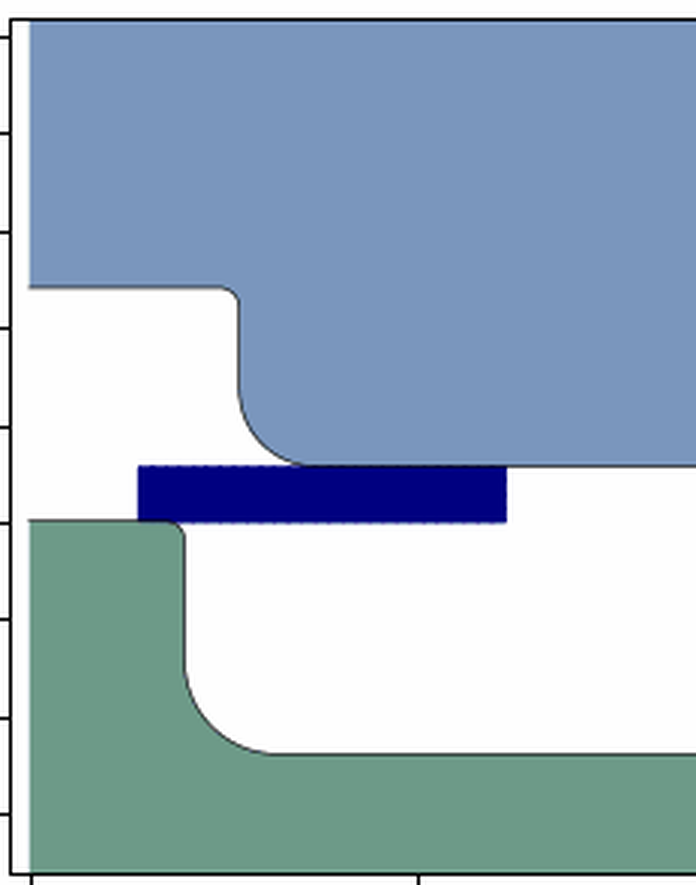
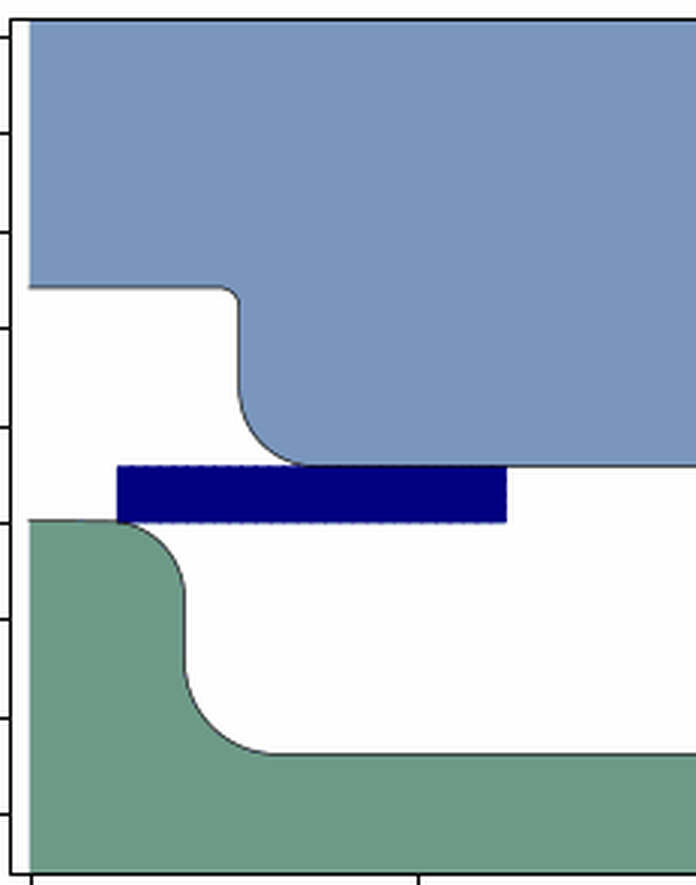
리테이너 금형 영상: 버링 펀치 끝 R2 · 클리어런스 비교를 대본·장면에 반영, 숫자 갱신(기초 구멍 Ø4.571 · 얇아짐 29 % · 100톤)
Claude-Session: https://claude.ai/code/session_01HCMiuu1AesjX1pGFB7RxTw

Changed region(s): [[0.1509, 0.5186, 0.2716, 0.6712]]

diff --git a/연재/리테이너금형개발/장면/ch5.py b/연재/리테이너금형개발/장면/ch5.py
@@ -25,9 +25,17 @@ for k in range(14):
     keyv(o,'scale',[(0,(0,0,0)),(t-0.01,(0,0,0)),(t,(1,1,1))])
 ri=card('어깨 R 3.4 → 2.4 로 줄이고 다시 해석','',(0,-60,-40),COL['sky'],w=220,h=22,tsize=10); pop(ri,T(5)+0.2,T(7)-0.1)
 tm=card('해석 1회 ≈ 몇 초','바꾸고 → 다시 확인이 빠름',(0,-60,90),COL['accent'],w=170,h=34,tsize=12,ssize=9); pop(tm,T(6)+0.2,T(7)-0.1)
-ok=card('몸통 Ø12.8 < 간격 14.6 ✔','기초 구멍 Ø5.646 · 높이 3.97',(0,-60,90),(0.35,1,0.45),w=190,h=34,tsize=12,ssize=9); pop(ok,T(7)+0.2)
+ok=card('몸통 Ø12.8 < 간격 14.6 ✔','결과는 거의 같음',(0,-60,90),(0.35,1,0.45),w=190,h=34,tsize=12,ssize=9); pop(ok,T(7)+0.2,T(8)-0.2)
+# 펀치 끝 R2 · 클리어런스 비교 (1번 펀치 끝 가까이)
+NX=32.5
+def tip_card(s,sub,t0,t1,col):
+    c=card(s,sub,(NX+33,-49,-1.5),col,w=240,h=65 if not sub else 85,tsize=20,ssize=14); pop(c,t0,t1,s=0.1); return c
+tip_card('버링 펀치 끝 R2','구멍에 부드럽게 들어감',T(8)+0.2,T(9)-0.1,COL['sky'])
+tip_card('끝 각짐 32 % → 끝 R2 29 %','버링 끝 두께 0.66 → 0.77',T(9)+0.2,T(10)-0.1,COL['accent'])
+tip_card('틈을 좁혀 훑기 (0.85t · 0.7t)','높이 거의 그대로 · 하중 2~3배',T(10)+0.2,T(11)-0.1,COL['red'])
+tip_card('틈 = 판 두께 1.4 ✔','펀치 Ø8 · 다이 구멍 Ø10.8',T(11)+0.2,None,(0.35,1,0.45))
 cam,tgt=camera(40)
 cam_keys(cam,tgt,[(0,(60,-150,-70),(0,0,10)),(T(2)-0.2,(40,-140,-80),(0,0,0)),(T(2)+0.6,(0,-60,-190),(0,0,0)),(T(3)-0.1,(40,-170,-80),(0,0,-25)),(T(4)-0.1,(45,-175,-78),(0,0,-25)),
-                  (T(4)+0.3,(90,-160,60),(0,0,30)),(T(6)-0.2,(110,-150,40),(0,0,30)),(T(7)+0.2,(70,-110,-60),(0,0,10)),(DUR,(60,-120,-70),(0,0,10))])
+                  (T(4)+0.3,(90,-160,60),(0,0,30)),(T(6)-0.2,(110,-150,40),(0,0,30)),(T(7)+0.2,(0,-240,40),(0,0,25)),(T(8)-0.3,(10,-245,40),(0,0,25)),(T(8)+0.5,(NX+40,-110,-15),(NX+6,0,0)),(DUR,(NX+42,-112,-14),(NX+6,0,0))])
 handheld(cam,0.15)
 finish('ch5',DUR)

diff --git a/연재/리테이너금형개발/장면/ch4.py b/연재/리테이너금형개발/장면/ch4.py
@@ -11,13 +11,13 @@ for i,f in enumerate(FR):
     keyv(o,'scale',[(0,(0,0,0)),(max(0,a-0.01),(0,0,0)),(a,(1,1,1))]+([(b,(1,1,1)),(b+0.01,(0,0,0))] if b else []),interp='CONSTANT')
 lb=text('기초 구멍 → 펀치로 넓히며 버링을 세움',18,(-200,-10,175),rgb=COL['white']); pop(lb,T(1)+0.2)
 c=card('기초 피어싱 지름 = 버링 높이를 결정','',(-200,-10,-185),COL['accent'],w=380,h=50,tsize=18); pop(c,T(2)+0.2)
-tb=table((170,-20,130),['회차','기초 구멍','버링 높이','판정'],[['1','Ø4.700','4.78','높음'],['2','Ø7.800','2.23','낮음'],['3','Ø5.646','3.97','맞음 ✔']],
+tb=table((170,-20,130),['회차','기초 구멍','버링 높이','판정'],[['1','Ø4.700','3.94','낮음'],['2','Ø4.453','4.06','높음'],['3','Ø4.571','4.01','맞음 ✔']],
          [-190,-130,-20,90],w=400,rh=40,size=18,t0=T(4)+0.2,dt=0.9)
 pop(tb,T(3)+0.4)
 th=image_plane(os.path.join(AI,'얇아짐_확대.png'),300,(-200,-6,0),name='thin'); pop(th,T(5))
-w1=card('끝 두께 0.66 · 약 32 % 얇아짐','',(200,-35,-90),COL['red'],w=360,h=46,tsize=18); pop(w1,T(5)+0.3)
+w1=card('끝 두께 0.77 · 약 29 % 얇아짐','',(200,-35,-90),COL['red'],w=360,h=46,tsize=18); pop(w1,T(5)+0.3)
 w2=card('갈라짐 위험 → 시험 타발로 확인','',(200,-35,-145),COL['red'],w=360,h=40,tsize=16); pop(w2,T(6)+0.2)
-w3=card('높이 3.5 → 얇아짐 약 20 %','고객과 협의할 내용',(200,-35,-215),COL['accent'],w=340,h=70,tsize=18,ssize=13); pop(w3,T(7)+0.2)
+w3=card('높이를 조금 낮추는 안','고객과 협의할 내용',(200,-35,-215),COL['accent'],w=340,h=70,tsize=18,ssize=13); pop(w3,T(7)+0.2)
 cam,tgt=camera(35)
 cam_keys(cam,tgt,[(0,(-200,-520,20),(-200,0,0)),(T(3)-0.3,(-180,-560,10),(-190,0,0)),(T(3)+0.6,(0,-860,0),(0,0,-10)),(T(5)-0.3,(0,-880,0),(0,0,-10)),
                   (T(5)+0.6,(0,-880,-20),(0,0,-20)),(DUR,(10,-890,-20),(0,0,-20))])

diff --git a/연재/리테이너금형개발/장면/자료_만들기.py b/연재/리테이너금형개발/장면/자료_만들기.py
@@ -5,7 +5,7 @@ import matplotlib.pyplot as plt
 from matplotlib import font_manager as fm
 from PIL import Image
 H=os.path.dirname(os.path.abspath(__file__)); O=os.path.join(H,'자료')
-FEM='/home/user/mold_sold/parts/TEST_RETAINER_SPCC/burr_cell/reverse/iter2_d5.646'
+FEM='/home/user/mold_sold/parts/TEST_RETAINER_SPCC/burr_cell/reverse/iter2_d4.571'
 fp=fm.FontProperties(fname='/usr/share/fonts/truetype/nanum/NanumGothicBold.ttf')
 plt.rcParams['font.family']=fp.get_name(); fm.fontManager.addfont('/usr/share/fonts/truetype/nanum/NanumGothicBold.ttf')
 # 1) 가정 고객 도면 (요청 그대로: ID50 · OD60 · 버링 14 · 높이 4, 버링 지름 미지정)
@@ -34,9 +34,11 @@ fig.savefig(os.path.join(O,'고객도면.png')); plt.close(fig)
 # 2) 성형해석 장면: GIF 프레임에서 버링 주변(r 0~17 mm)만 잘라 크게
 for nm,fr in (('S2_burring',(0,4,8,12,16,22)),('S3_restrike',(13,))):
     im=Image.open(os.path.join(FEM,nm+'.gif'))
+    N=im.n_frames; base=23 if nm=='S2_burring' else 14
     for k in fr:
+        k0=k; k=min(N-1,round(k*(N-1)/(base-1)))
         im.seek(min(k,im.n_frames-1)); c=im.convert('RGB').crop((268,30,500,325)).resize((696,885),Image.LANCZOS)
-        c.save(os.path.join(O,'%s_%02d.png'%(nm,k)))
+        c.save(os.path.join(O,'%s_%02d.png'%(nm,k0)))
 s=Image.open(os.path.join(FEM,'S2_burring_summary.png')).convert('RGB')
 s.crop((205,400,752,765)).save(os.path.join(O,'얇아짐_확대.png'))
 s.crop((80,805,880,1195)).save(os.path.join(O,'얇아짐_그래프.png'))

diff --git a/연재/리테이너금형개발/장면/ch7.py b/연재/리테이너금형개발/장면/ch7.py
@@ -10,7 +10,7 @@ for i,(s,cl) in enumerate((('상형 펀치',COL['punch']),('하형 다이',COL['
     c=card(s,'',(-220+i*220,-200,330),cl,w=190,h=56,tsize=22); pop(c,T(2)+0.3+i*0.5,T(3)-0.2)
 lf=card('리프터: 스트립을 4.2 띄움','버링이 다이에 걸리지 않게',(SX[2]-40,-60,62),COL['sky'],w=120,h=34,tsize=9,ssize=6); pop(lf,T(3)+0.4,T(4)-0.1)
 hp=card('하프블랭킹 받침 패드','링만 내려가고 가운데 조각은 그대로',(SX[5]-40,-60,62),COL['accent'],w=140,h=34,tsize=9,ssize=5.5); pop(hp,T(4)+0.4,T(5)-0.1)
-pr=card('합계 ≈ 634 kN (약 65 톤)','→ 80 톤 이상 프레스',(0,-200,330),COL['red'],w=380,h=70,tsize=24,ssize=16); pop(pr,T(5)+0.3)
+pr=card('합계 ≈ 797 kN (약 81 톤)','→ 100 톤 프레스',(0,-200,330),COL['red'],w=380,h=70,tsize=24,ssize=16); pop(pr,T(5)+0.3)
 cam,tgt=camera(32)
 orbit(cam,tgt,0,T(2)-0.2,(0,0,40),1300,520,-125,-80,n=10)
 cam_keys(cam,tgt,[(T(2)+0.3,(0,-1350,520),(0,0,90)),(T(3)-0.1,(80,-1380,520),(0,0,90)),(T(3)+0.8,(SX[2]-30,-300,90),(SX[2],0,10)),(T(4)-0.1,(SX[2]+10,-290,80),(SX[2],0,10)),

diff --git a/연재/리테이너금형개발/장면/ch3.py b/연재/리테이너금형개발/장면/ch3.py
@@ -5,7 +5,7 @@ sc=setup(); floor(grid=False,z=-40)
 # 제품 3D: 돌며 보기 → 아래에서 버링 끝 확대 → 무게
 p=product((0,0,0))
 c1=card('해석 단면을 그대로 돌려 붙임','',(0,-50,45),COL['sky'],w=170,h=24,tsize=10); pop(c1,T(2)+0.2,T(3)+1.5)
-c2=card('제품 무게 ≈ 29.6 g','SPCC · t1.4 · 버링 14',(0,-30,52),COL['accent'],w=110,h=26,tsize=10,ssize=6); pop(c2,T(4)+0.2)
+c2=card('제품 무게 ≈ 31.2 g','SPCC · t1.4 · 버링 14',(0,-30,52),COL['accent'],w=110,h=26,tsize=10,ssize=6); pop(c2,T(4)+0.2)
 cam,tgt=camera(40)
 orbit(cam,tgt,0,T(2)+1.0,(0,0,0),150,70,-120,-60,n=8)
 cam_keys(cam,tgt,[(T(3)-0.3,(10,-110,-40),(25,5,-2)),(T(3)+0.8,(45,-30,-22),(30,5,-2)),(T(4)-0.3,(50,-22,-20),(30,8,-2)),(T(4)+0.6,(0,-150,40),(0,0,10)),(DUR,(15,-155,45),(0,0,10))])

diff --git a/연재/리테이너금형개발/장면/ch10.py b/연재/리테이너금형개발/장면/ch10.py
@@ -13,7 +13,7 @@ for i,v in enumerate(vals):
     z=130-i*55
     lb=text('실적 금형 %s'%'ABCDEF'[i],15,(-610,-4,z),rgb=COL['white'],align='LEFT'); pop(lb,T(2)+0.6+i*0.2)
     b=box((300*v,8,26),(-420+150*v,-2,z),COL['sky']); pop(b,T(3)+0.2+i*0.25)
-nv=[('공정 수','10'),('부품 수','192'),('판 크기','962 × 210'),('프레스','80 톤')]
+nv=[('공정 수','10'),('부품 수','192'),('판 크기','962 × 210'),('프레스','100 톤')]
 for i,(a,b) in enumerate(nv):
     c=card(a,b,(240,-40,190-i*80),COL['accent'],w=230,h=64,tsize=18,ssize=16); pop(c,T(4)+0.2+i*0.35)
 ar=text('비교 →',22,(-10,-30,40),rgb=COL['accent']); pop(ar,T(4)+1.6)
